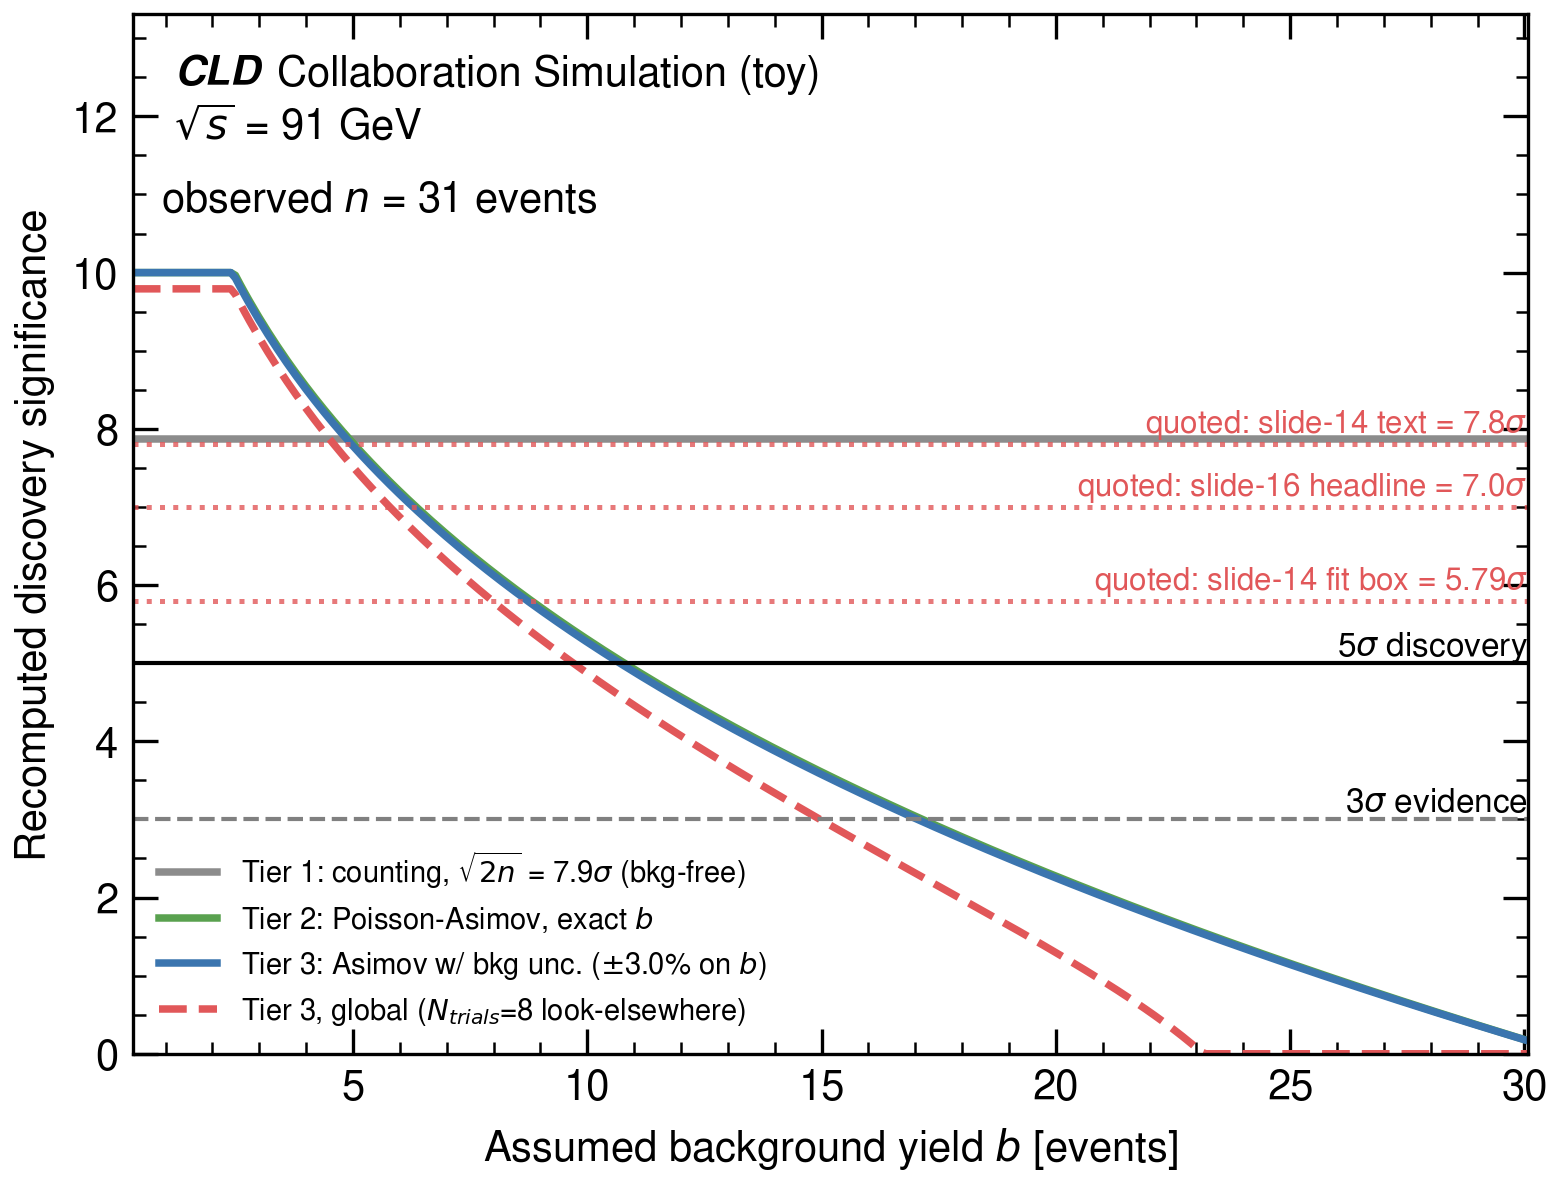
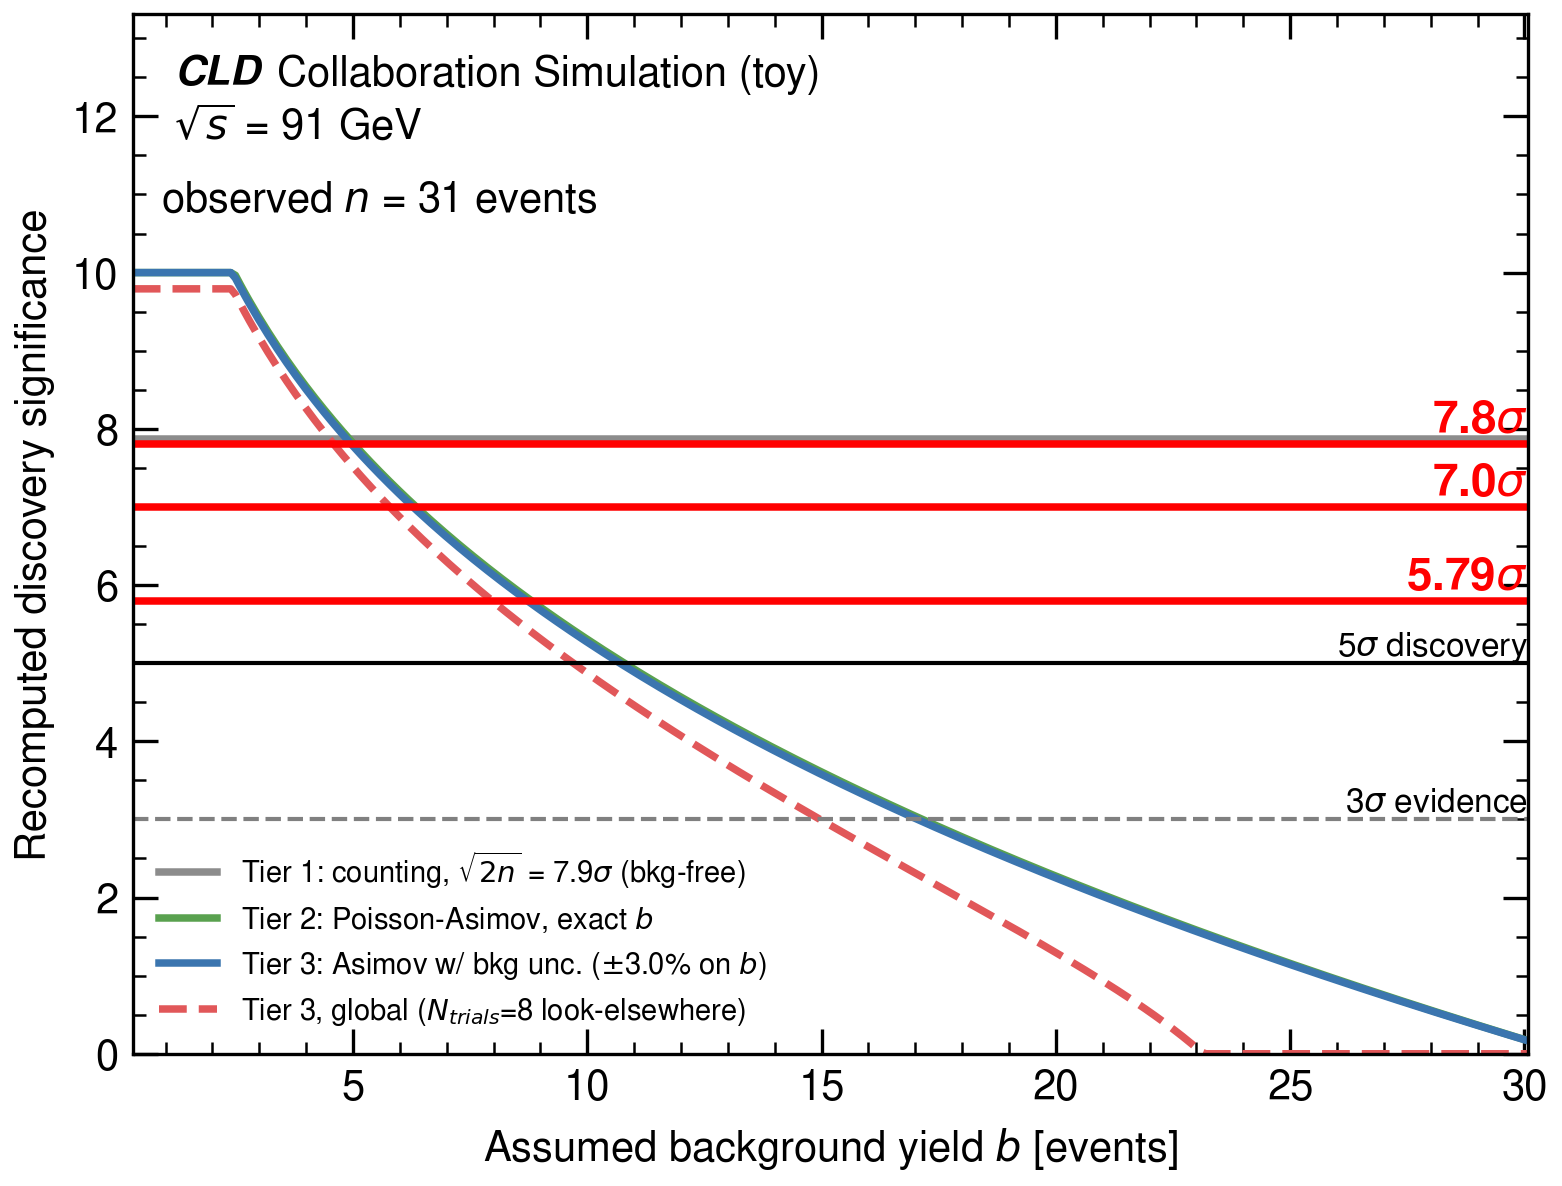
Apply the same quoted-sigma styling (plain value, red solid) to 91 GeV plot

Changed region(s): [[0.0922, 0.312, 0.9834, 0.4368], [0.0922, 0.468, 0.9834, 0.5304]]

diff --git a/src/interpret_bsm.py b/src/interpret_bsm.py
@@ -220,16 +220,10 @@ def significance_hierarchy_plot(n_obs, event_topology, quoted_sigmas, energy_gev
     ax.text(b_scan[-1], 5.1, "5$\\sigma$ discovery", fontsize=8, ha="right")
     ax.axhline(3, color="gray", ls="--", lw=1)
     ax.text(b_scan[-1], 3.1, "3$\\sigma$ evidence", fontsize=8, ha="right")
-    single = len(quoted_sigmas) == 1
     for name, val in quoted_sigmas.items():
-        if single:
-            ax.axhline(val, color="red", ls="-", lw=1.8)
-            ax.text(b_scan[-1], val + 0.15, f"{val}$\\sigma$", fontsize=11,
-                    color="red", ha="right", fontweight="bold")
-        else:
-            ax.axhline(val, color=style.PALETTE["h1"], ls=":", lw=1.2, alpha=0.8)
-            ax.text(b_scan[-1], val + 0.15, f"quoted: {name} = {val}$\\sigma$", fontsize=7.5,
-                    color=style.PALETTE["h1"], ha="right")
+        ax.axhline(val, color="red", ls="-", lw=1.8)
+        ax.text(b_scan[-1], val + 0.15, f"{val}$\\sigma$", fontsize=11,
+                color="red", ha="right", fontweight="bold")
     ax.set_xlim(b_scan[0], b_scan[-1])
     ax.set_ylim(0, max([z1, *quoted_sigmas.values()]) * 1.3)
     ax.set_xlabel(r"Assumed background yield $b$ [events]")
